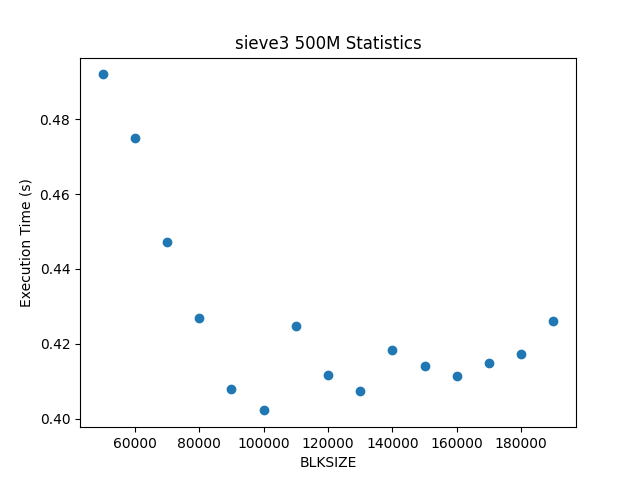
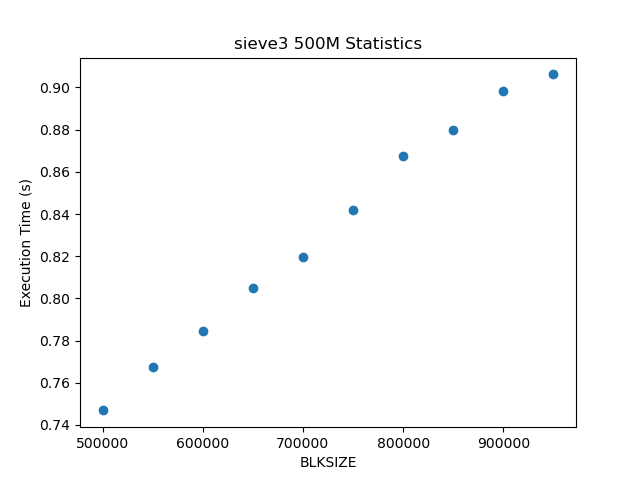
I think I just consolidated the two counting loops into one since my testing passed

diff --git a/assignments/3/sieve4.c b/assignments/3/sieve4.c
@@ -36,7 +36,7 @@ int FMIB(long index, long prime) {
 int main(int argc, char **argv) {
 
    long N  = 100;
-   long BLKSIZE = 100000;
+   long BLKSIZE = 400000;
 
    char *mark;
 
@@ -71,7 +71,8 @@ int main(int argc, char **argv) {
    // +1 for null character 
    size = (N+1)*sizeof(char);
    mark = (char *)malloc(size);
-
+   
+   #pragma omp parallel for
    for (i=1; i<=N; i=i+1){
      mark[i]=0;
    }
@@ -100,22 +101,24 @@ int main(int argc, char **argv) {
    count = 1;                       // Count starts from 1 to account for  2
    for(i = 3; i <= sqrt_N; i+=2){   // i starts from 3 as we only count odds
         if(mark[i/2] == 0) {
-            primes[count++] = i;
-            //printf("primes[%d] = %d\n", count, i);
+            primes[count] = i;
+            #pragma omp atomic
+            count++;
+//            printf("primes[%ld] = %ld\n", i/2, i);
         }
-   }
+    } 
 
 
    /* end of preamble */
 
    #pragma omp parallel for
    for (int ii = sqrt_N; ii < p_size; ii += BLKSIZE) {
-        //printf("block start: %d, end: %d\n", ii, ii+BLKSIZE);  
+//        printf("block start: %d, end: %d\n", ii, ii+BLKSIZE);  
         for (int j = 1; j < count; j++) {  // skip primes[0] because that's evens
-            //printf("prime: %ld\n", primes[j]);
-           // printf("FMIB(%d, %ld) = %ld, i = %ld\n", ii, prime, FMIB(ii, prime));
+//            printf("prime: %ld\n", primes[j]);
+//           printf("FMIB(%d, %ld) = %ld, i = %ld\n", ii, primes[j], FMIB(ii, primes[j]));
            for (long i = FMIB(ii, primes[j]); i <= minn(ii+BLKSIZE, p_size); i += 2*primes[j]) {
-               //printf("mark[%ld] = 1\n", i/2); 
+//               printf("mark[%ld] = 1\n", i/2); 
                mark[i/2] = 1;
            }
        }

diff --git a/assignments/3/sieve3.c b/assignments/3/sieve3.c
@@ -36,7 +36,7 @@ int FMIB(long index, long prime) {
 int main(int argc, char **argv) {
 
    long N  = 100;
-   long BLKSIZE = 200000;
+   long BLKSIZE = 400000;
 
    char *mark;
 
@@ -71,7 +71,8 @@ int main(int argc, char **argv) {
    // +1 for null character 
    size = (N+1)*sizeof(char);
    mark = (char *)malloc(size);
-
+    
+   #pragma omp parallel for
    for (i=1; i<=N; i=i+1){
      mark[i]=0;
    }
@@ -98,6 +99,7 @@ int main(int argc, char **argv) {
    long primes[sqrt_N]; 
    primes[0] = 2;                   // Don't include 2 because it's even
    count = 1;                       // Count starts from 1 to account for  2
+   #pragma omp parallel for
    for(i = 3; i <= sqrt_N; i+=2){   // i starts from 3 as we only count odds
         if(mark[i/2] == 0) {
             primes[count++] = i;
